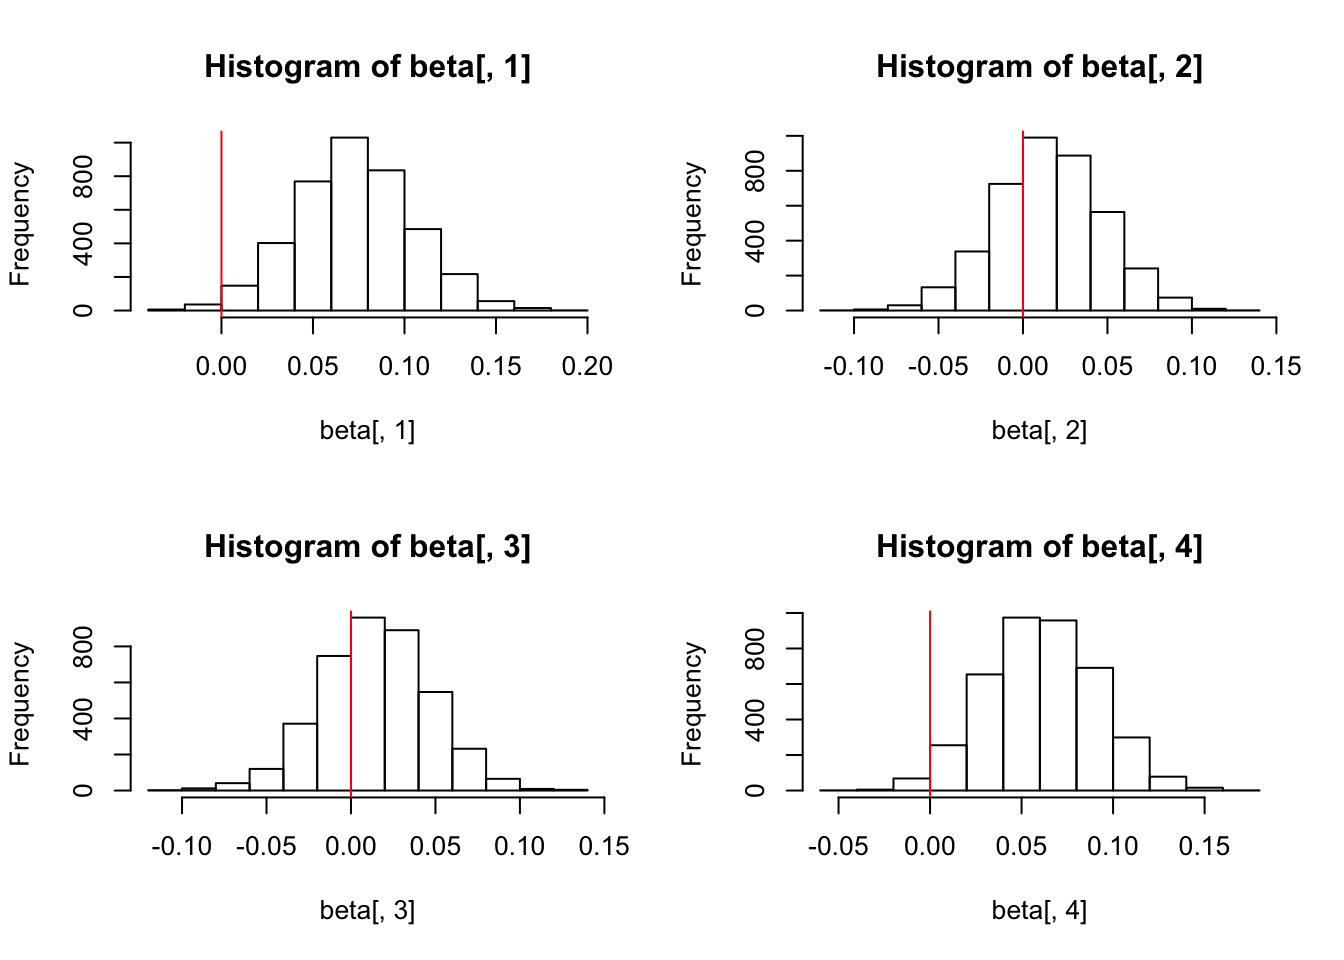
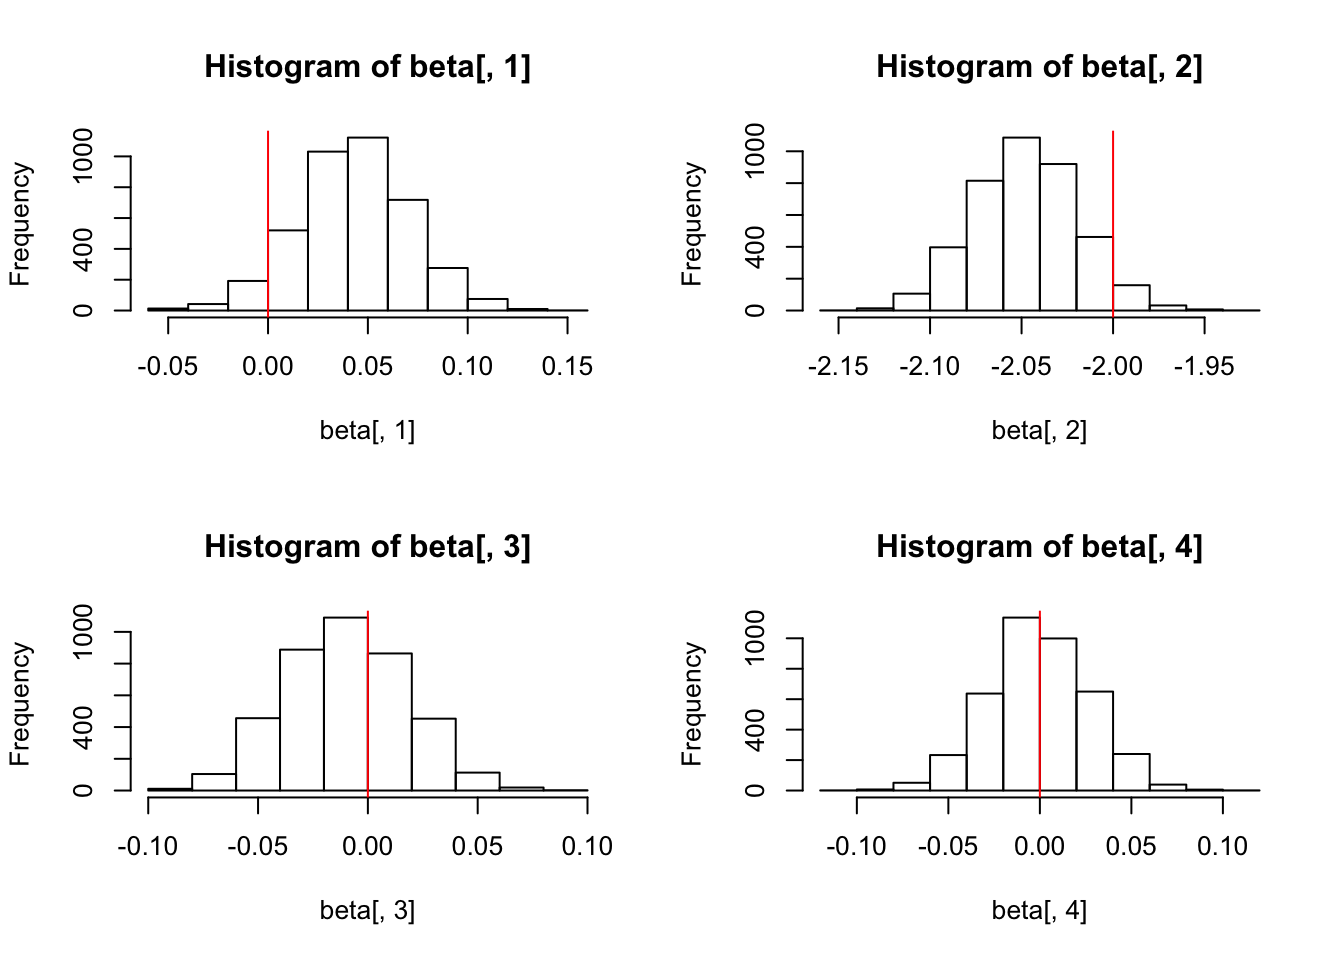
Build site.

diff --git a/docs/STAN_model_strat.html b/docs/STAN_model_strat.html
@@ -411,7 +411,7 @@ div.section {
 <div class="tab-content">
 <div id="summary" class="tab-pane fade in active">
 <p>
-<strong>Last updated:</strong> 2020-04-21
+<strong>Last updated:</strong> 2020-05-12
 </p>
 <p>
 <strong>Checks:</strong> <span class="glyphicon glyphicon-ok text-success" aria-hidden="true"></span> 7 <span class="glyphicon glyphicon-exclamation-sign text-danger" aria-hidden="true"></span> 0
@@ -502,10 +502,10 @@ This reproducible <a href="http://rmarkdown.rstudio.com">R Markdown</a> analysis
 <div class="panel panel-default">
 <div class="panel-heading">
 <p class="panel-title">
-<a data-toggle="collapse" data-parent="#workflowr-checks" href="#strongRepositoryversionstrongahrefhttpsgithubcomjgblancinfermutationalbiastreee9aa5c6d19309fd434735c556eeb5b439a156b17targetblanke9aa5c6a"> <span class="glyphicon glyphicon-ok text-success" aria-hidden="true"></span> <strong>Repository version:</strong> <a href="https://github.com/jgblanc/infer_mutational_bias/tree/e9aa5c6d19309fd434735c556eeb5b439a156b17" target="_blank">e9aa5c6</a> </a>
+<a data-toggle="collapse" data-parent="#workflowr-checks" href="#strongRepositoryversionstrongahrefhttpsgithubcomjgblancinfermutationalbiastreeeb97fb40255eadd05cbf1f7ef0ca9b69f68ae182targetblankeb97fb4a"> <span class="glyphicon glyphicon-ok text-success" aria-hidden="true"></span> <strong>Repository version:</strong> <a href="https://github.com/jgblanc/infer_mutational_bias/tree/eb97fb40255eadd05cbf1f7ef0ca9b69f68ae182" target="_blank">eb97fb4</a> </a>
 </p>
 </div>
[2 lines of base64/hex data omitted]
 <div class="panel-body">
 <p>
 Great! You are using Git for version control. Tracking code development and connecting the code version to the results is critical for reproducibility. The version displayed above was the version of the Git repository at the time these results were generated. <br><br> Note that you need to be careful to ensure that all relevant files for the analysis have been committed to Git prior to generating the results (you can use <code>wflow_publish</code> or <code>wflow_git_commit</code>). workflowr only checks the R Markdown file, but you know if there are other scripts or data files that it depends on. Below is the status of the Git repository when the results were generated:
@@ -612,6 +612,7 @@ Unstaged changes:
     Modified:   .snakemake/metadata/b3V0cHV0L1NUUkFUL3BydW5lZC9jaHIxX0VVUl8wLjMuZWlnZW52ZWMudmFyLkRBLnBydW5lLmlu
     Modified:   .snakemake/metadata/b3V0cHV0L1NUUkFUL3BydW5lZC9jaHIxX0VVUl8wLjQuZWlnZW52ZWMudmFyLkRBLnBydW5lLmlu
     Modified:   analysis/GWAS_ATLAS_results.Rmd
+    Modified:   analysis/Stratification.Rmd
     Modified:   analysis/shift_GWAS_ATLAS.Rmd
     Modified:   code/parse_gwas_atlas_nonsig/CAD_3925.R
     Modified:   code/parse_gwas_atlas_nonsig/T2D_4085.R
@@ -662,6 +663,40 @@ Message
 Rmd
 </td>
 <td>
+<a href="https://github.com/jgblanc/infer_mutational_bias/blob/eb97fb40255eadd05cbf1f7ef0ca9b69f68ae182/analysis/STAN_model_strat.Rmd" target="_blank">eb97fb4</a>
+</td>
+<td>
+jgblanc
+</td>
+<td>
+2020-05-12
+</td>
+<td>
+maybe fixed stan model?
+</td>
+</tr>
+<tr>
+<td>
+html
+</td>
+<td>
+<a href="https://rawcdn.githack.com/jgblanc/infer_mutational_bias/b0d721fd5c0aae82c05a463c2e0648043b56d555/docs/STAN_model_strat.html" target="_blank">b0d721f</a>
+</td>
+<td>
+jgblanc
+</td>
+<td>
+2020-04-21
+</td>
+<td>
+Build site.
+</td>
+</tr>
+<tr>
+<td>
+Rmd
+</td>
+<td>
 <a href="https://github.com/jgblanc/infer_mutational_bias/blob/e9aa5c6d19309fd434735c556eeb5b439a156b17/analysis/STAN_model_strat.Rmd" target="_blank">e9aa5c6</a>
 </td>
 <td>
@@ -688,6 +723,7 @@ added new stan model
 <p><span class="math display">\[D_l = 1 \text{   if  } \beta_l &gt; 0\]</span> <span class="math display">\[D_l = 0 \text{   if  } \beta_l &lt; 0\]</span></p>
 <p><span class="math display">\[R = \sum_lD_l\]</span></p>
 <p><span class="math display">\[R \sim Bin(1/2, L)\]</span></p>
+<p><span class="math display">\[\hat{\beta} = \beta + \sum_i \lambda_i^{1/2} V \beta_i + e\]</span></p>
 </div>
 <div id="functions-to-simulate-data" class="section level2">
 <h2>Functions to Simulate Data</h2>
@@ -713,60 +749,83 @@ added new stan model
   Bhat &lt;- Btrue + loading_time_pc + rnorm(L, mean = 0, sd = epsilon_sd)
   return(Bhat)
 }</code></pre>
-<p>Function to Calculate R - the fraction of sites with <span class="math inline">\(\hat{\beta} &gt; 0\)</span></p>
-<pre class="r"><code>calc_R &lt;- function(Bhat) {
-  return(sum(Bhat &gt; 0))
-}</code></pre>
 </div>
 <div id="stan-model" class="section level2">
 <h2>STAN model</h2>
-<pre class="stan"><code>data {
+<pre class="stan"><code>functions {  
+  real my_ll_lpmf(int R, int L, real b){
+    real lprob;
+    lprob = lchoose(L, R) + log((b)^(R)) + log((1 - b)^(L - R));
+    return lprob;
+  }
+}
+data {
   int&lt;lower=0&gt; L;   // number of Beta hats
   int&lt;lower=0&gt; n;   // number of predictors (PCs)
   matrix[L, n] x;   // predictor matrix (loadings n x L)
   vector[L] y;      // outcome vector
-  int&lt;lower=0&gt; R;   // number B &gt; 0 
+  real b; // 
 }
 parameters {
-  real alpha;           // intercept
   vector[n] beta;       // coefficients for predictors
   real&lt;lower=0&gt; sigma;  // error scale
 }
 model {
-  y ~ normal(x * beta + alpha, sigma);  // likelihood
-  R ~ binomial(L, 0.5); 
+  int R;
+  vector[L] true_beta;
+  real true_causal;
+  R = 0;
+  true_beta = x*beta;
+  //print(R, true_beta);
+  for (i in 1:L) {
+    true_causal = y[i] - true_beta[i];
+    if (true_causal &gt; 0) {
+      R = R + 1;
+    }
+  };
+  R ~ my_ll_lpmf(L, b); 
+  //print(&quot;R:&quot;, R, &quot;true_beta:&quot;, true_beta);
+  //print(&quot;R:&quot;, R);
+  y ~ normal(x * beta, sigma);  // likelihood
 }</code></pre>
 </div>
 <div id="fit-model" class="section level2">
 <h2>Fit model</h2>
 <p>Function to fit model</p>
-<pre class="r"><code>fit_model &lt;- function(L, n, loading_mean, loading_sd, Bpc, epsilon_sd, Btrue) {
+<pre class="r"><code>fit_model &lt;- function(L, n, loading_mean, loading_sd, Bpc, epsilon_sd, Btrue, b) {
   loadings &lt;- simulate_loadings(L = L, n = n, loading_mean = loading_mean, loading_sd = loading_sd)
   Bhat &lt;- calc_beta_hat(L = L, n = n, Btrue = Btrue, Bpc = Bpc, epsilon_sd = epsilon_sd, loadings = loadings)
-  R &lt;- calc_R(Bhat)
-  data &lt;- list(y = Bhat, L = L, n = n, x = t(loadings), R=R)
-  fit &lt;- sampling(simple, data = data, refresh = 0)
+  data &lt;- list(y = Bhat, L = L, n = n, x = t(loadings), b=b)
+  fit &lt;- sampling(simple, data = data, refresh = 0, chains=4)
   return(fit)
 }</code></pre>
 </div>
 <div id="examples" class="section level2">
 <h2>Examples</h2>
 <p>1 PC with no effect</p>
-<pre class="r"><code>mod &lt;- fit_model(L = 1000, n = 1, loading_mean = 1, loading_sd = 1, Bpc = 0, epsilon_sd = 1, Btrue = rep(0, 1000))</code></pre>
+<pre class="r"><code>mod &lt;- fit_model(L = 1000, n = 1, loading_mean = 1, loading_sd = 1, Bpc = 0, epsilon_sd = 1, Btrue = rep(0, 1000), b=0.5)</code></pre>
 <pre class="r"><code>fit_ss &lt;- extract(mod)
 hist(fit_ss$beta, main = &quot;Posterior&quot;)
 abline(v=0,col=&quot;red&quot;)</code></pre>
-<p><img src="figure/STAN_model_strat.Rmd/unnamed-chunk-7-1.png" width="672" style="display: block; margin: auto;" /></p>
+<p><img src="figure/STAN_model_strat.Rmd/unnamed-chunk-6-1.png" width="672" style="display: block; margin: auto;" /></p>
 <p>1 PC with Bpc = 2</p>
-<pre class="r"><code>mod &lt;- fit_model(L = 1000, n = 1, loading_mean = 1, loading_sd = 1, Bpc = 2, epsilon_sd = 1, Btrue = rep(0, 1000))</code></pre>
+<pre class="r"><code>mod &lt;- fit_model(L = 1000, n = 1, loading_mean = 1, loading_sd = 1, Bpc = 2, epsilon_sd = 1, Btrue = rep(0, 1000), b=0.5)</code></pre>
 <pre class="r"><code>fit_ss &lt;- extract(mod)
 hist(fit_ss$beta, main = &quot;Posterior&quot;)
 abline(v=2,col=&quot;red&quot;)</code></pre>
-<p><img src="figure/STAN_model_strat.Rmd/unnamed-chunk-9-1.png" width="672" style="display: block; margin: auto;" /></p>
+<p><img src="figure/STAN_model_strat.Rmd/unnamed-chunk-8-1.png" width="672" style="display: block; margin: auto;" /></p>
 <p>4 PCs no effects</p>
-<pre class="r"><code>mod &lt;- fit_model(L = 1000, n = 4, loading_mean = 1, loading_sd = 1, Bpc = rep(0,4), epsilon_sd = 1, Btrue = rep(0, 1000))
-
-fit_ss &lt;- extract(mod)
+<pre class="r"><code>mod &lt;- fit_model(L = 1000, n = 4, loading_mean = 1, loading_sd = 1, Bpc = rep(0,4), epsilon_sd = 1, Btrue = rep(0, 1000), b=0.5)</code></pre>
+<pre><code>Warning: There were 3950 transitions after warmup that exceeded the maximum treedepth. Increase max_treedepth above 10. See
+http://mc-stan.org/misc/warnings.html#maximum-treedepth-exceeded</code></pre>
+<pre><code>Warning: Examine the pairs() plot to diagnose sampling problems</code></pre>
+<pre><code>Warning: Bulk Effective Samples Size (ESS) is too low, indicating posterior means and medians may be unreliable.
+Running the chains for more iterations may help. See
+http://mc-stan.org/misc/warnings.html#bulk-ess</code></pre>
+<pre><code>Warning: Tail Effective Samples Size (ESS) is too low, indicating posterior variances and tail quantiles may be unreliable.
+Running the chains for more iterations may help. See
+http://mc-stan.org/misc/warnings.html#tail-ess</code></pre>
+<pre class="r"><code>fit_ss &lt;- extract(mod)
 beta &lt;- fit_ss$beta
 par(mfrow = c(2,2))
 hist(beta[,1])
@@ -777,10 +836,47 @@ hist(beta[,3])
 abline(v=0,col=&quot;red&quot;)
 hist(beta[,4])
 abline(v=0,col=&quot;red&quot;)</code></pre>
-<p><img src="figure/STAN_model_strat.Rmd/unnamed-chunk-10-1.png" width="672" style="display: block; margin: auto;" /></p>
-<p>4 PCs - PC has effect = -2</p>
-<pre class="r"><code>mod &lt;- fit_model(L = 1000, n = 4, loading_mean = 1, loading_sd = 1, Bpc = c(0,-2,0,0), epsilon_sd = 1, Btrue = rep(0, 1000))
-
+<p><img src="figure/STAN_model_strat.Rmd/unnamed-chunk-9-1.png" width="672" style="display: block; margin: auto;" /></p>
+<p>
+<button type="button" class="btn btn-default btn-xs btn-workflowr btn-workflowr-fig" data-toggle="collapse" data-target="#fig-unnamed-chunk-9-1">
+Past versions of unnamed-chunk-9-1.png
+</button>
+</p>
+<div id="fig-unnamed-chunk-9-1" class="collapse">
+<div class="table-responsive">
+<table class="table table-condensed table-hover">
+<thead>
+<tr>
+<th>
+Version
+</th>
+<th>
+Author
+</th>
+<th>
+Date
+</th>
+</tr>
+</thead>
+<tbody>
+<tr>
+<td>
+<a href="https://github.com/jgblanc/infer_mutational_bias/blob/b0d721fd5c0aae82c05a463c2e0648043b56d555/docs/figure/STAN_model_strat.Rmd/unnamed-chunk-9-1.png" target="_blank">b0d721f</a>
+</td>
+<td>
+jgblanc
+</td>
+<td>
+2020-04-21
+</td>
+</tr>
+</tbody>
+</table>
+</div>
+</div>
+<p>4 PCs - PC 2 has effect = -2</p>
+<pre class="r"><code>mod &lt;- fit_model(L = 1000, n = 4, loading_mean = 1, loading_sd = 1, Bpc = c(0,-2,0,0), epsilon_sd = 1, Btrue = rep(0, 1000), b=0.5)
+ 
 fit_ss &lt;- extract(mod)
 beta &lt;- fit_ss$beta
 par(mfrow = c(2,2))
@@ -792,10 +888,44 @@ hist(beta[,3])
 abline(v=0,col=&quot;red&quot;)
 hist(beta[,4])
 abline(v=0,col=&quot;red&quot;)</code></pre>
-<p><img src="figure/STAN_model_strat.Rmd/unnamed-chunk-11-1.png" width="672" style="display: block; margin: auto;" /></p>
-<pre class="r"><code># print(mod)
-# plot(mod)
-# traceplot(mod,pars=&quot;beta[1]&quot; )</code></pre>
+<p><img src="figure/STAN_model_strat.Rmd/unnamed-chunk-10-1.png" width="672" style="display: block; margin: auto;" /></p>
+<p>
+<button type="button" class="btn btn-default btn-xs btn-workflowr btn-workflowr-fig" data-toggle="collapse" data-target="#fig-unnamed-chunk-10-1">
+Past versions of unnamed-chunk-10-1.png
+</button>
+</p>
+<div id="fig-unnamed-chunk-10-1" class="collapse">
+<div class="table-responsive">
+<table class="table table-condensed table-hover">
+<thead>
+<tr>
+<th>
+Version
+</th>
+<th>
+Author
+</th>
+<th>
+Date
+</th>
+</tr>
+</thead>
+<tbody>
+<tr>
+<td>
+<a href="https://github.com/jgblanc/infer_mutational_bias/blob/b0d721fd5c0aae82c05a463c2e0648043b56d555/docs/figure/STAN_model_strat.Rmd/unnamed-chunk-10-1.png" target="_blank">b0d721f</a>
+</td>
+<td>
+jgblanc
+</td>
+<td>
+2020-04-21
+</td>
+</tr>
+</tbody>
+</table>
+</div>
+</div>
 <br>
 <p>
 <button type="button" class="btn btn-default btn-workflowr btn-workflowr-sessioninfo" data-toggle="collapse" data-target="#workflowr-sessioninfo" style="display: block;">

diff --git a/docs/index.html b/docs/index.html
@@ -332,7 +332,7 @@ div.section {
 <div class="tab-content">
 <div id="summary" class="tab-pane fade in active">
 <p>
-<strong>Last updated:</strong> 2020-04-21
+<strong>Last updated:</strong> 2020-05-12
 </p>
 <p>
 <strong>Checks:</strong> <span class="glyphicon glyphicon-ok text-success" aria-hidden="true"></span> 2 <span class="glyphicon glyphicon-exclamation-sign text-danger" aria-hidden="true"></span> 0
@@ -363,10 +363,10 @@ This reproducible <a href="http://rmarkdown.rstudio.com">R Markdown</a> analysis
 <div class="panel panel-default">
 <div class="panel-heading">
 <p class="panel-title">
-<a data-toggle="collapse" data-parent="#workflowr-checks" href="#strongRepositoryversionstrongahrefhttpsgithubcomjgblancinfermutationalbiastreee9aa5c6d19309fd434735c556eeb5b439a156b17targetblanke9aa5c6a"> <span class="glyphicon glyphicon-ok text-success" aria-hidden="true"></span> <strong>Repository version:</strong> <a href="https://github.com/jgblanc/infer_mutational_bias/tree/e9aa5c6d19309fd434735c556eeb5b439a156b17" target="_blank">e9aa5c6</a> </a>
+<a data-toggle="collapse" data-parent="#workflowr-checks" href="#strongRepositoryversionstrongahrefhttpsgithubcomjgblancinfermutationalbiastreeeb97fb40255eadd05cbf1f7ef0ca9b69f68ae182targetblankeb97fb4a"> <span class="glyphicon glyphicon-ok text-success" aria-hidden="true"></span> <strong>Repository version:</strong> <a href="https://github.com/jgblanc/infer_mutational_bias/tree/eb97fb40255eadd05cbf1f7ef0ca9b69f68ae182" target="_blank">eb97fb4</a> </a>
 </p>
 </div>
[2 lines of base64/hex data omitted]
 <div class="panel-body">
 <p>
 Great! You are using Git for version control. Tracking code development and connecting the code version to the results is critical for reproducibility. The version displayed above was the version of the Git repository at the time these results were generated. <br><br> Note that you need to be careful to ensure that all relevant files for the analysis have been committed to Git prior to generating the results (you can use <code>wflow_publish</code> or <code>wflow_git_commit</code>). workflowr only checks the R Markdown file, but you know if there are other scripts or data files that it depends on. Below is the status of the Git repository when the results were generated:
@@ -473,6 +473,7 @@ Unstaged changes:
     Modified:   .snakemake/metadata/b3V0cHV0L1NUUkFUL3BydW5lZC9jaHIxX0VVUl8wLjMuZWlnZW52ZWMudmFyLkRBLnBydW5lLmlu
     Modified:   .snakemake/metadata/b3V0cHV0L1NUUkFUL3BydW5lZC9jaHIxX0VVUl8wLjQuZWlnZW52ZWMudmFyLkRBLnBydW5lLmlu
     Modified:   analysis/GWAS_ATLAS_results.Rmd
+    Modified:   analysis/Stratification.Rmd
     Modified:   analysis/shift_GWAS_ATLAS.Rmd
     Modified:   code/parse_gwas_atlas_nonsig/CAD_3925.R
     Modified:   code/parse_gwas_atlas_nonsig/T2D_4085.R
@@ -518,6 +519,40 @@ Message
 </tr>
 </thead>
 <tbody>
+<tr>
+<td>
+Rmd
+</td>
+<td>
+<a href="https://github.com/jgblanc/infer_mutational_bias/blob/eb97fb40255eadd05cbf1f7ef0ca9b69f68ae182/analysis/index.Rmd" target="_blank">eb97fb4</a>
+</td>
+<td>
+jgblanc
+</td>
+<td>
+2020-05-12
+</td>
+<td>
+maybe fixed stan model?
+</td>
+</tr>
+<tr>
+<td>
+html
+</td>
+<td>
+<a href="https://rawcdn.githack.com/jgblanc/infer_mutational_bias/b0d721fd5c0aae82c05a463c2e0648043b56d555/docs/index.html" target="_blank">b0d721f</a>
+</td>
+<td>
+jgblanc
+</td>
+<td>
+2020-04-21
+</td>
+<td>
+Build site.
+</td>
+</tr>
 <tr>
 <td>
 Rmd
@@ -991,7 +1026,8 @@ To see the results of data processing, click here <a href="CS_results.html">link
 To see the results of my data processing from the GWAS Atlas, click here <a href="GWAS_ATLAS_results.html">link</a><br />
 To see the results of my UKBB vs BBJ data processing, click here <a href="BBJvUKKBB.html">link</a><br />
 To see the results of PCA on 1kg data, click here <a href="Stratification.html">link</a><br />
-To see the results of looking for stratification in GWAS summary statistics, click here <a href="shift_GWAS_ATLAS.html">link</a> To see STAN inference, click here <a href="STAN_model_strat.html">link</a></p>
+To see the results of looking for stratification in GWAS summary statistics, click here <a href="shift_GWAS_ATLAS.html">link</a><br />
+To see STAN inference, click here <a href="STAN_model_strat.html">link</a></p>
 
 
 <!-- Adjust MathJax settings so that all math formulae are shown using
